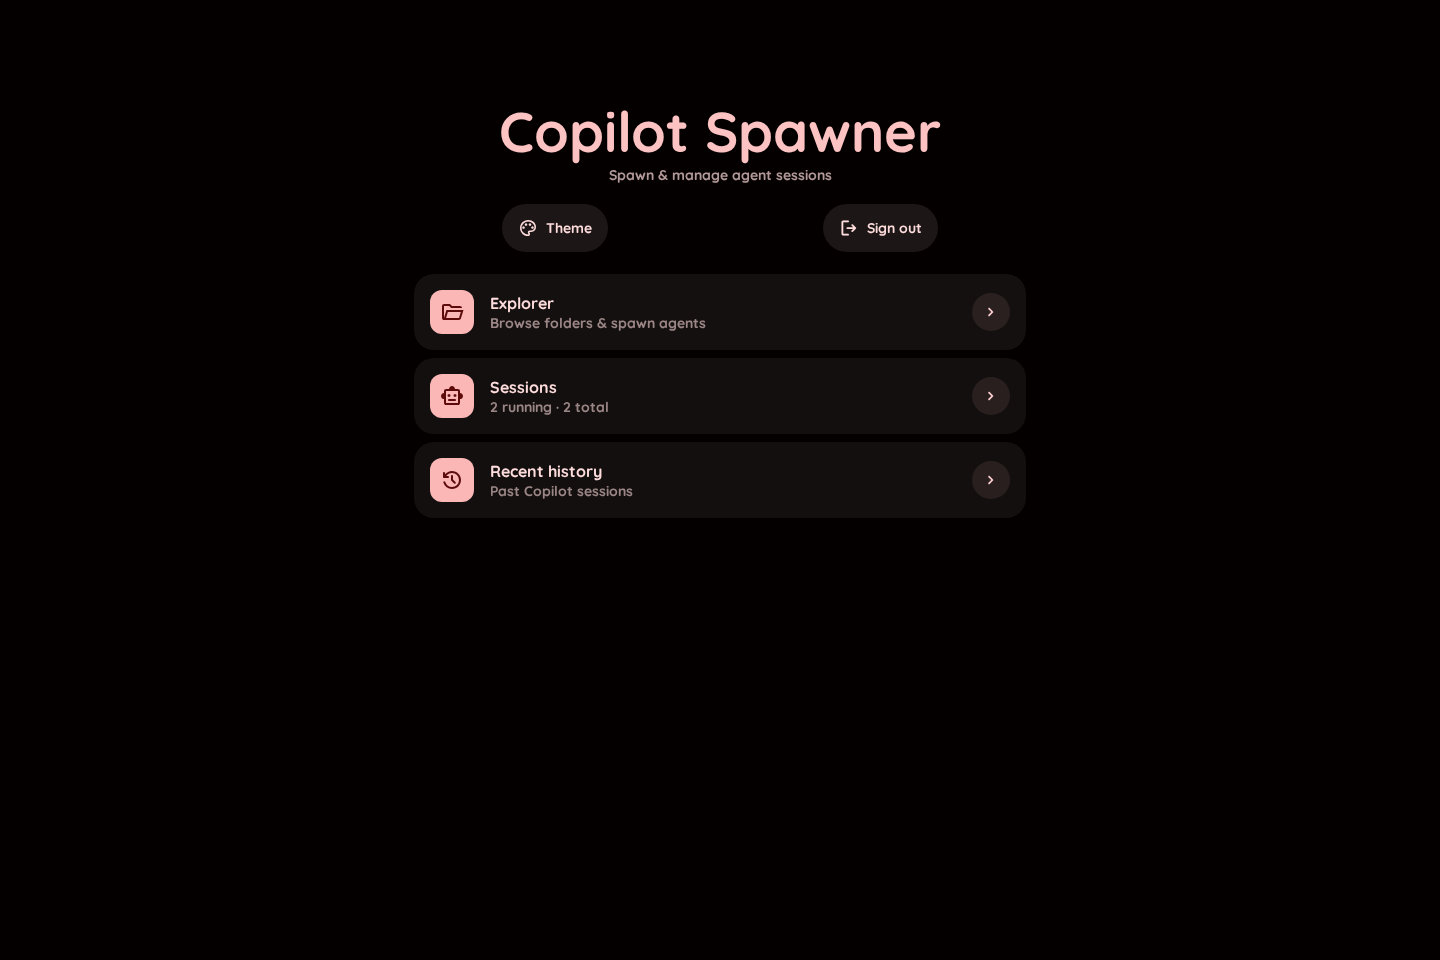
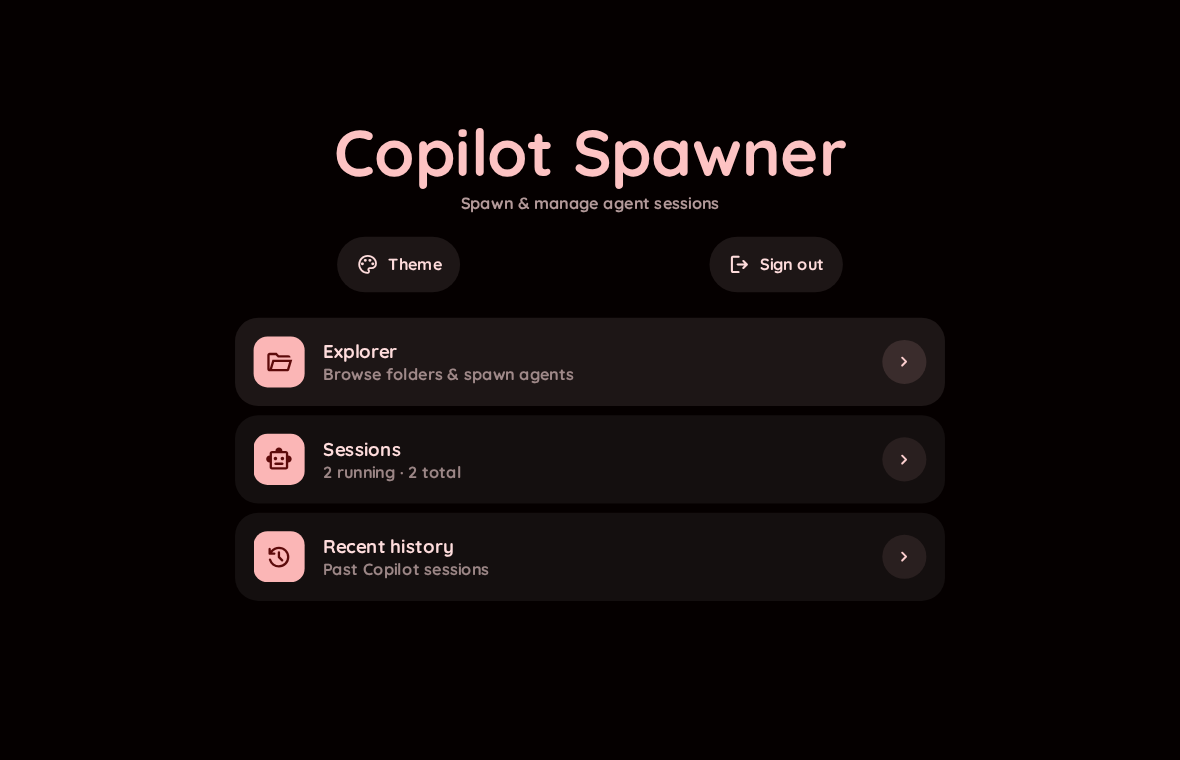
Zoom in README screenshots (#17)
* Zoom in README screenshots

* Center zoomed screenshot framing

* Make README screenshots larger

---------

diff --git a/README.md b/README.md
@@ -72,9 +72,15 @@ Open: <http://127.0.0.1:8765>
 
 ## Screenshots
 
-| Main | Explorer | Sessions |
-|---|---|---|
-| ![Main](docs/screenshots/01-main-dark-red.png) | ![Explorer](docs/screenshots/02-explorer-dark-lightblue.png) | ![Sessions](docs/screenshots/03-sessions-dark-green.png) |
+<p>
+	<img src="docs/screenshots/01-main-dark-red.png" alt="Main screen" width="100%">
+</p>
+<p>
+	<img src="docs/screenshots/02-explorer-dark-lightblue.png" alt="Explorer screen" width="100%">
+</p>
+<p>
+	<img src="docs/screenshots/03-sessions-dark-green.png" alt="Sessions screen" width="100%">
+</p>
 
 ## Configuration
 
